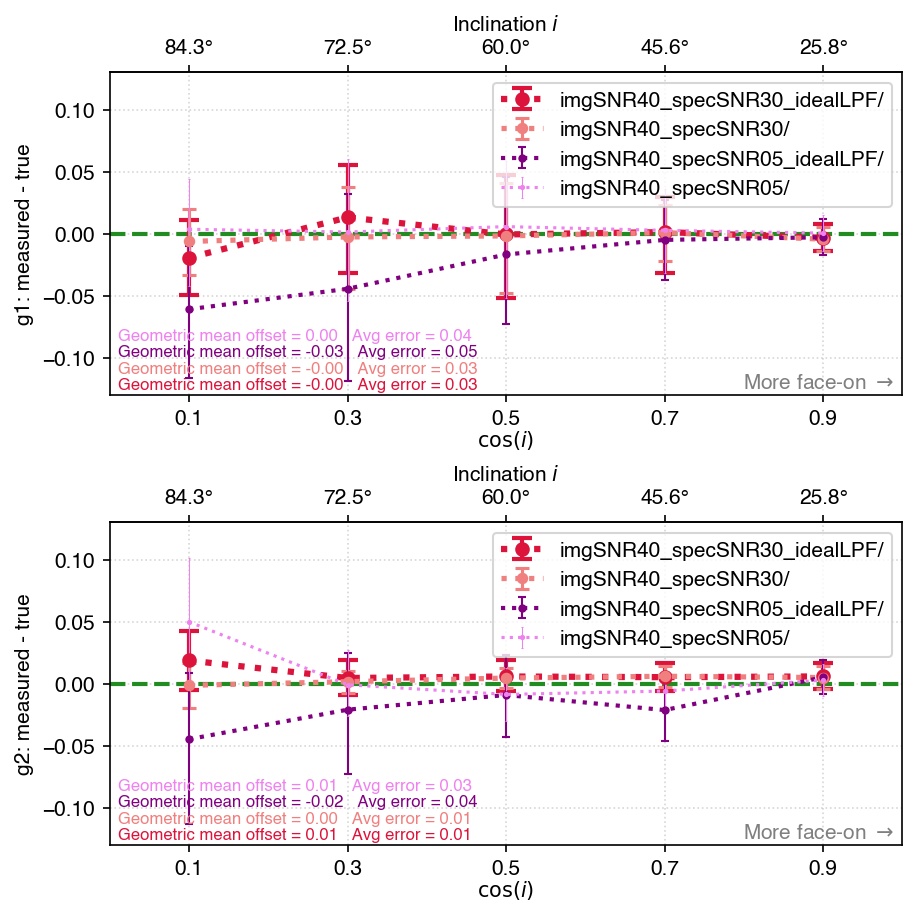
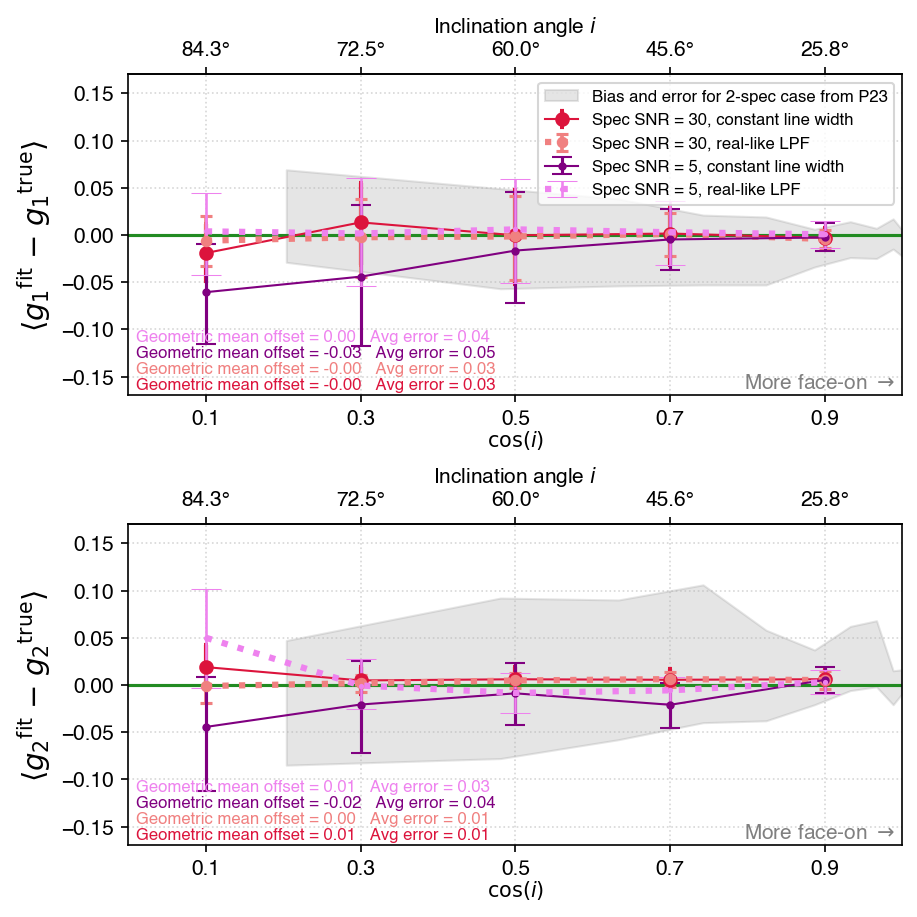
fixed shape noise problems

diff --git a/mock_analysis/multi_lines/shear_errorbars.py b/mock_analysis/multi_lines/shear_errorbars.py
@@ -64,6 +64,20 @@ if __name__ == "__main__":
         'imgSNR40_specSNR05_idealLPF/', 
         'imgSNR40_specSNR05/'
     ]
+    pretty_folder_name = {
+        'imgSNR40_specSNR05_idealLPF/': 
+        r'Spec SNR = 5, constant line width', 
+
+        'imgSNR40_specSNR05/':          
+        r'Spec SNR = 5, real-like LPF', 
+
+        'imgSNR40_specSNR30_idealLPF/': 
+        r'Spec SNR = 30, constant line width',
+
+        'imgSNR40_specSNR30/':          
+        r'Spec SNR = 30, real-like LPF'
+    }
+
     colors = ['crimson', 'lightcoral', 'purple', 'violet', 'black', 'royalblue', 'limegreen']
 
     # User input: Specify x-axis: 'cosi' or 'theta_int'
@@ -96,10 +110,11 @@ if __name__ == "__main__":
 
     # User input: which params
     pars_to_plot = ['g1', 'g2']
+    latex_strs = {'g1': r'$g_1$', 'g2': r'$g_2$'}
 
     # User input: prior range and ylim
     posterior_grid = np.linspace(-0.2, 0.2, 201)
-    ylims  = [(-0.13, 0.13), (-0.13, 0.13)] #
+    ylims  = [(-0.17, 0.17), (-0.17, 0.17)] #
 
     # Check if cosi and theta_int in mock files
     if xaxis_param == 'cosi':
@@ -142,6 +157,31 @@ if __name__ == "__main__":
         ])
         print(f'Finished reading {runs_folder}.')
 
+    P23F6_gp = np.array([ # sin(i), bias(g+), bias(g+) + err
+        [0.051, -0.008, 0.006],
+        [0.155,  0.001, 0.017],
+        [0.257, -0.009, 0.007],
+        [0.361, -0.005, 0.014],
+        [0.463, -0.014, 0.006],
+        [0.567, -0.017, 0.019],
+        [0.670, -0.016, 0.021], 
+        [0.774, -0.008, 0.038],
+        [0.877, -0.004, 0.049],
+        [0.979,  0.020, 0.069]
+    ])
+    P23F6_gx = np.array([ # sin(i), bias(gx), bias(gx) + err
+        [0.051,  0.003, 0.016],
+        [0.155, -0.003, 0.015],
+        [0.257,  0.033, 0.068],
+        [0.361,  0.028, 0.062],
+        [0.463,  0.008, 0.037],
+        [0.567,  0.010, 0.058],
+        [0.670,  0.033, 0.106], 
+        [0.774,  0.016, 0.090],
+        [0.877,  0.007, 0.092],
+        [0.979, -0.019, 0.047]
+    ])
+
     # ===============================================================
     # Option 1 - Error bars of g1/g2 vs cosi/theta_int: 
     # Match the grid used for the geometric-mean posterior plots.
@@ -165,11 +205,18 @@ if __name__ == "__main__":
     for idx_par, par_to_plot in enumerate(pars_to_plot):
         ax1 = fig.add_subplot(gs[idx_par, 0])
         
-        
-        ax1.set_ylabel(f'{plot_title_prefix}'+f'{par_to_plot}: measured - true')
+        ax1.set_ylabel(
+            f'{plot_title_prefix}' + 
+            r'$\leftangle$' + 
+            latex_strs[par_to_plot] + r'$^{\rm fit}$' + 
+            r' $-$ ' + 
+            latex_strs[par_to_plot] + r'$^{\rm true}$' + 
+            r'$\rightangle$',
+            fontsize=14
+            )
         ax1.set_xlabel(xaxis_label, labelpad=0)
 
-        ax1.axhline(y=0, color='forestgreen', linestyle='--', linewidth=2)
+        ax1.axhline(y=0, color='forestgreen', linestyle='-', linewidth=1.5)
         ax1.grid(linestyle=':', alpha=0.5)
 
         for run_num, (folder_name, quantiles) in enumerate(grouped_quantiles.items()):
@@ -181,14 +228,15 @@ if __name__ == "__main__":
             ax1.errorbar(
                 xaxis_unique, offsets,
                 yerr=yerrs, 
-                fmt=':', 
-                capsize   =5-1.5*run_num, 
+                fmt='-' if run_num % 2 == 0 else ':', 
+                capsize   =1+2*run_num, 
                 capthick  =2-0.5*run_num, 
-                linewidth =3-0.5*run_num,
-                elinewidth=2-0.5*run_num, 
+                linewidth =1 if run_num % 2 == 0 else 3,
+                elinewidth=2-0.25*run_num, 
                 markersize=6-1.5*run_num, 
-                marker='o', color=color, alpha=1.0, 
-                label=folder_name
+                marker='o', 
+                color=color, alpha=1.0, 
+                label=pretty_folder_name[folder_name]
                 )
 
             ax1.text(0.01, 0.01 + run_num * 0.05, 
@@ -202,18 +250,38 @@ if __name__ == "__main__":
                 0.99, 0.01, r'More face-on $\rightarrow$', 
                 color='gray', ha='right', va='bottom', 
                 transform=ax1.transAxes
-                )
+            )
 
             # Secondary axis: i (inclination angle; deg)
             ax1.set_xlim(0.0, 1.0)  # 让上轴显示完整的 90° 到 0°
             ax_top = ax1.secondary_xaxis(
                 'top', functions=(cosi_to_deg, deg_to_cosi)
             )
-            ax_top.set_xlabel(r'Inclination $i$')
+            ax_top.set_xlabel(r'Inclination angle $i$')
             ax_top.set_xticks(cosi_to_deg(xaxis_unique))
             ax_top.xaxis.set_major_formatter('{x:.1f}°')
 
-        ax1.legend(prop={'size': 10}, loc='upper right')
+            # Compare with Pranjal+2023 Figure 6
+            if par_to_plot == 'g1':
+                ax1.fill_between(
+                    x=(1 - P23F6_gp[:, 0]**2)**0.5, 
+                    y1=P23F6_gp[:, 2], 
+                    y2=(2 * P23F6_gp[:, 1] - P23F6_gp[:, 2]), 
+                    color='gray', alpha=0.2, 
+                    label=r'Bias and error for 2-spec case from P23'
+                )
+            elif par_to_plot == 'g2':
+                ax1.fill_between(
+                    x=(1 - P23F6_gx[:, 0]**2)**0.5, 
+                    y1=P23F6_gx[:, 2], 
+                    y2=(2 * P23F6_gx[:, 1] - P23F6_gx[:, 2]), 
+                    color='gray', alpha=0.2, 
+                    label=r'Bias and error for 2-spec case from P23'
+                )
+
+        if idx_par == 0:
+            ax1.legend(prop={'size': 8}, loc='upper right')
+        
         ax1.set_xticks(xaxis_unique)
         ax1.set_ylim(ylims[idx_par])
 
@@ -221,44 +289,105 @@ if __name__ == "__main__":
     plt.close()
 
     # ===============================================================
-    # Option 2 - Shape noise vs. inclination
+    # Option 2 - Shear uncertainty vs. inclination
     if xaxis_param == 'cosi':
         shear_cols = [pars_to_plot.index(par) for par in ('g1', 'g2')]
-        fig_eps, ax_eps = plt.subplots(figsize=(5, 3))
 
-        for run_num, (folder_name, quantiles) in enumerate(grouped_quantiles.items()):
-            # Shape: (cosi groups, shear components, lower/upper sides).
-            shear_yerrs = np.diff(quantiles[:, shear_cols, :], axis=-1)
+        # Each array has shape (inclination groups, shear components).
+        half_widths_by_run = {
+            folder: (quantiles[:, shear_cols, 2] - quantiles[:, shear_cols, 0]) / 2
+            for folder, quantiles in grouped_quantiles.items()
+        }
 
-            mean_yerrs = shear_yerrs.mean(axis=-1)  # 每个点、每个分量的上下误差平均
-            yerr_1, yerr_2 = mean_yerrs.T
-            epsilon_err = np.sqrt((yerr_1**2 + yerr_2**2) / 2)
+        def add_inclination_axis(ax):
+            ax.set_xlim(0.0, 1.0)
+            ax.set_xticks(xaxis_unique)
+            ax_top = ax.secondary_xaxis(
+                'top', functions=(cosi_to_deg, deg_to_cosi)
+            )
+            ax_top.set_xlabel(r'Inclination $i$')
+            ax_top.set_xticks(cosi_to_deg(xaxis_unique))
+            ax_top.xaxis.set_major_formatter('{x:.1f}°')
 
+        # -----------------------------------------------------------
+        # 2A - Combined shape noise (RMS across g1 and g2)
+        fig_eps, ax_eps = plt.subplots(figsize=(5, 4))
+
+        # Plot Pranjal's error bars
+        gp_errs = P23F6_gp[:, 2] - P23F6_gp[:, 1]
+        gx_errs = P23F6_gx[:, 2] - P23F6_gx[:, 1]
+        ax_eps.plot(
+            (1 - P23F6_gp[:, 0]**2)**0.5, 
+            np.sqrt((gp_errs**2 + gx_errs**2) / 2), 
+            color='gray', marker='s', linestyle='--', alpha=0.5, 
+            label=r'2-spec case from P23'
+        )
+
+        for run_num, (folder, half_widths) in enumerate(half_widths_by_run.items()):
+            epsilon_err = np.sqrt(np.mean(half_widths**2, axis=1))
             ax_eps.plot(
-                xaxis_unique, epsilon_err, marker='o', linestyle=':',
-                color=colors[run_num % len(colors)], label=folder_name,
+                xaxis_unique, epsilon_err, marker='o', 
+                linestyle='-' if run_num % 2 == 0 else ':',
+                color=colors[run_num % len(colors)], 
+                label=pretty_folder_name[folder],
             )
 
-        # Secondary axis: i (inclination angle; deg)
-        ax_eps.set_xlim(0.0, 1.0)  # 让上轴显示完整的 90° 到 0°
-        ax_top = ax_eps.secondary_xaxis(
-            'top', functions=(cosi_to_deg, deg_to_cosi)
-        )
-        ax_top.set_xlabel(r'Inclination $i$')
-        ax_top.set_xticks(cosi_to_deg(xaxis_unique))
-        ax_top.xaxis.set_major_formatter('{x:.1f}°')
-
+        add_inclination_axis(ax_eps)
         ax_eps.set_xlabel(xaxis_label)
         ax_eps.set_ylabel(r'Shape noise $\sigma_\epsilon = \sqrt{(\sigma^2_{g1} + \sigma^2_{g2})/2}$')
-        ax_eps.set_xticks(xaxis_unique)
-        ax_eps.set_ylim(bottom=0)
+        ax_eps.set_ylim(bottom=0, top=0.11)
         ax_eps.grid(linestyle=':', alpha=0.5)
-        ax_eps.legend(prop={'size': 8})
+        ax_eps.legend(fontsize=8)
         fig_eps.savefig('shape_noise_vs_cosi.png', dpi=150, bbox_inches='tight')
         plt.close(fig_eps)
-    
+
+        # -----------------------------------------------------------
+        # 2B - Separate shape noises for g1 and g2
+        fig_width, width_axes = plt.subplots(
+            nrows=2, sharex=True, sharey=True, figsize=(5, 5),
+            layout='constrained',
+        )
+
+        # Plot Pranjal's error bars
+        width_axes[0].plot(
+            (1 - P23F6_gp[:, 0]**2)**0.5, 
+            (P23F6_gp[:, 2] - P23F6_gp[:, 1]), 
+            color='gray', marker='s', linestyle='--', alpha=0.5, 
+            label=r'2-spec case from P23'
+        )
+        width_axes[1].plot(
+            (1 - P23F6_gx[:, 0]**2)**0.5, 
+            (P23F6_gx[:, 2] - P23F6_gx[:, 1]), 
+            color='gray', marker='s', linestyle='--', alpha=0.5, 
+            label=r'2-spec case from P23'
+        )
+
+        for component_idx, ax in enumerate(width_axes):
+            for run_num, (folder, half_widths) in enumerate(half_widths_by_run.items()):
+                ax.plot(
+                    xaxis_unique, half_widths[:, component_idx],
+                    marker='o', 
+                    linestyle='-' if run_num % 2 == 0 else ':',
+                    color=colors[run_num % len(colors)], 
+                    label=pretty_folder_name[folder],
+                )
+
+            ax.set_ylabel(
+                rf'Shape noise $\sigma$('+latex_strs[f"g{component_idx+1}"]+')'
+            )
+            ax.grid(linestyle=':', alpha=0.5)
+
+        add_inclination_axis(width_axes[0])
+        width_axes[0].set_ylim(bottom=0, top=0.11)
+        width_axes[0].legend(fontsize=7)
+        width_axes[-1].set_xlabel(xaxis_label)
+        fig_width.savefig(
+            'shape_noise_g1g2_vs_cosi.png', dpi=150, bbox_inches='tight',
+        )
+        plt.close(fig_width)
+
     else:
-        print('Skipped the plot of shape noise vs. cosi.')
+        print('Skipped the shear uncertainty plots vs. cosi.')
 
     # # ===============================================================
     # # Option 3 - Sanity check: 
